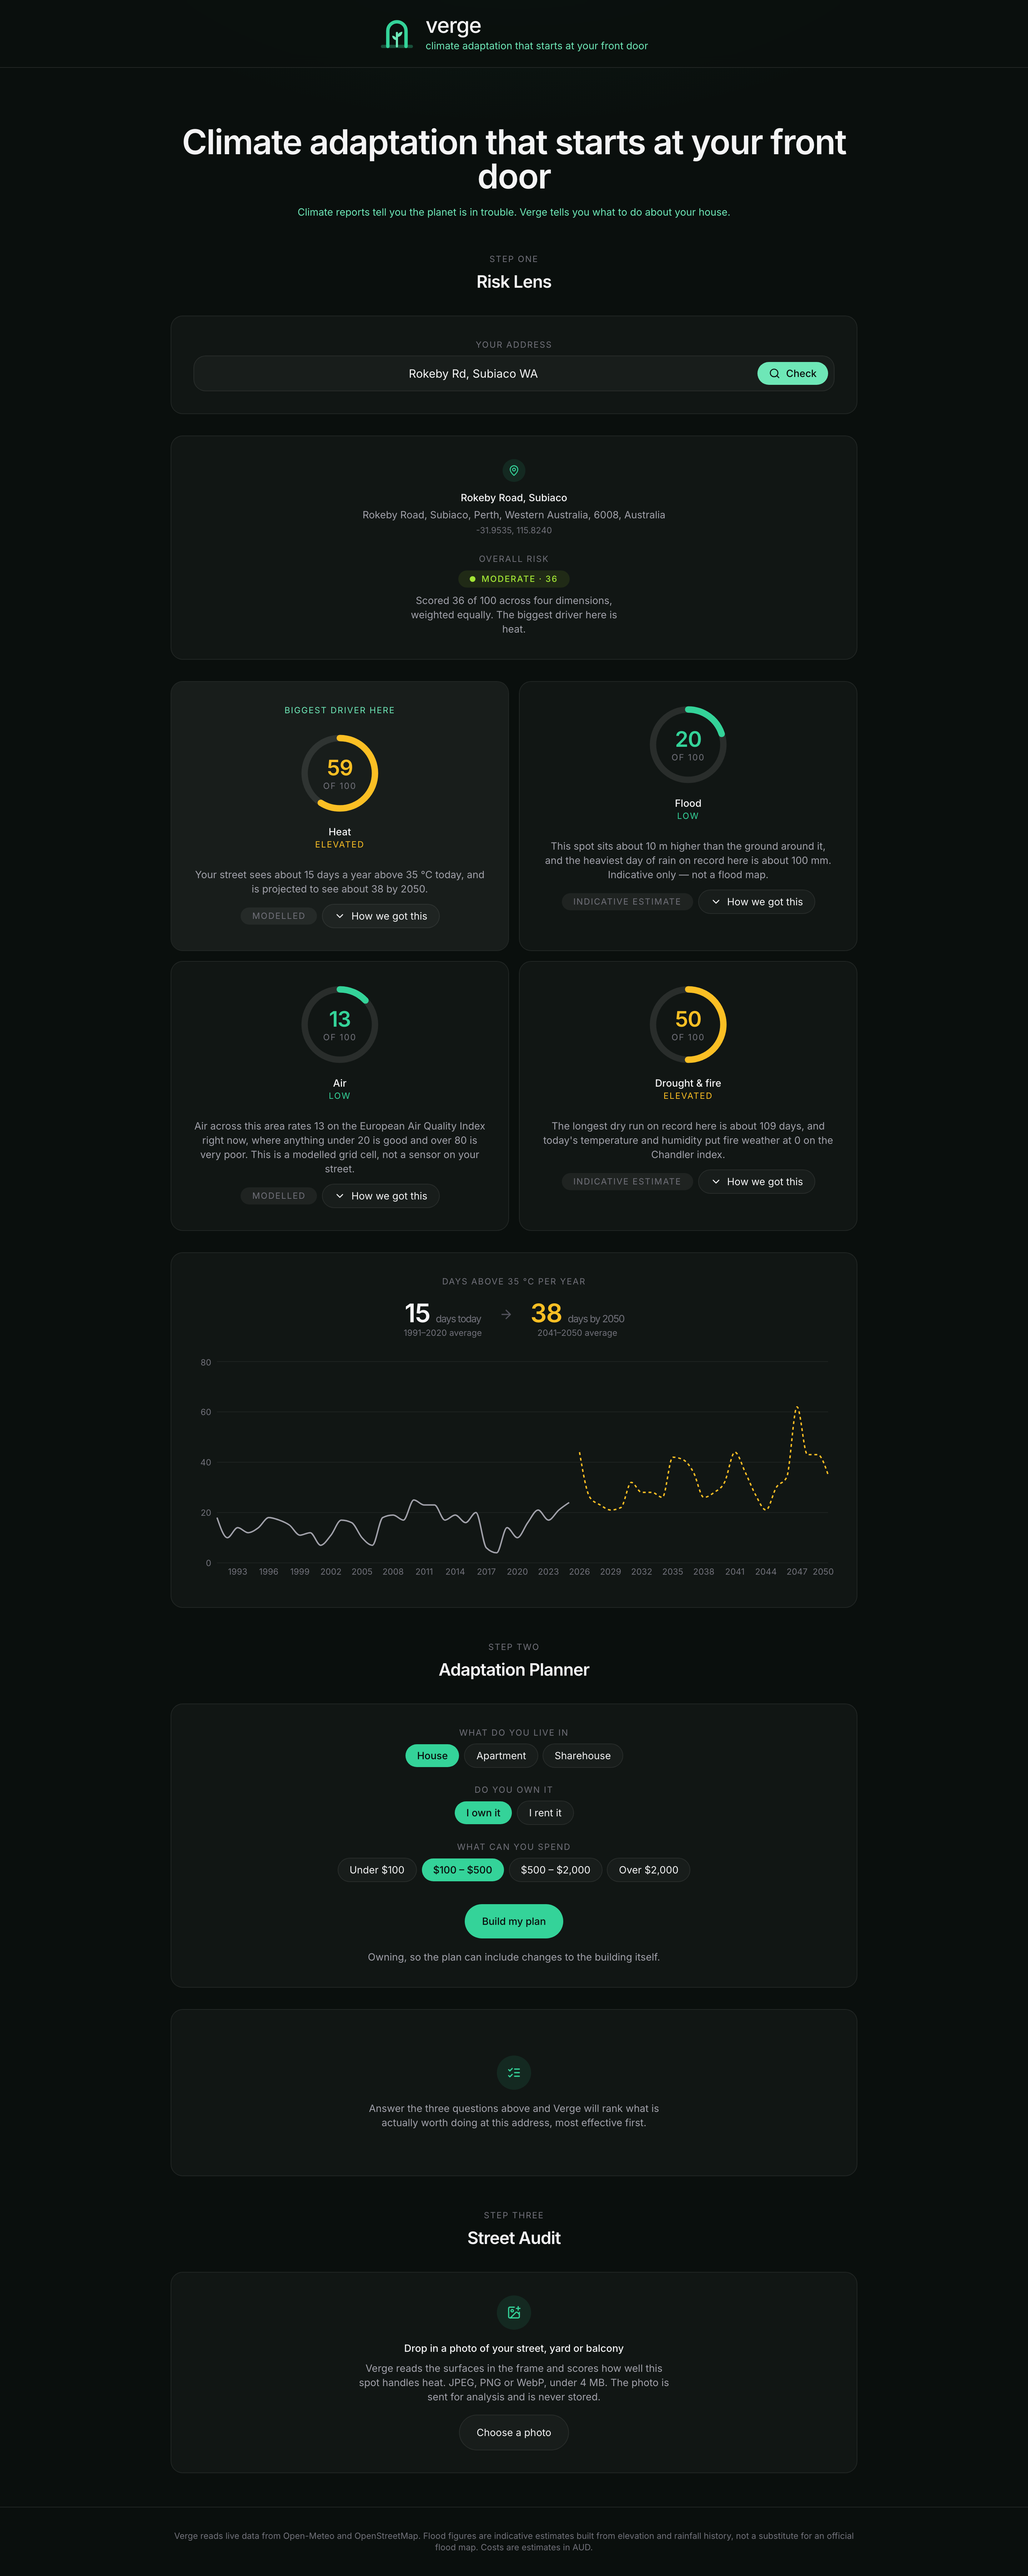
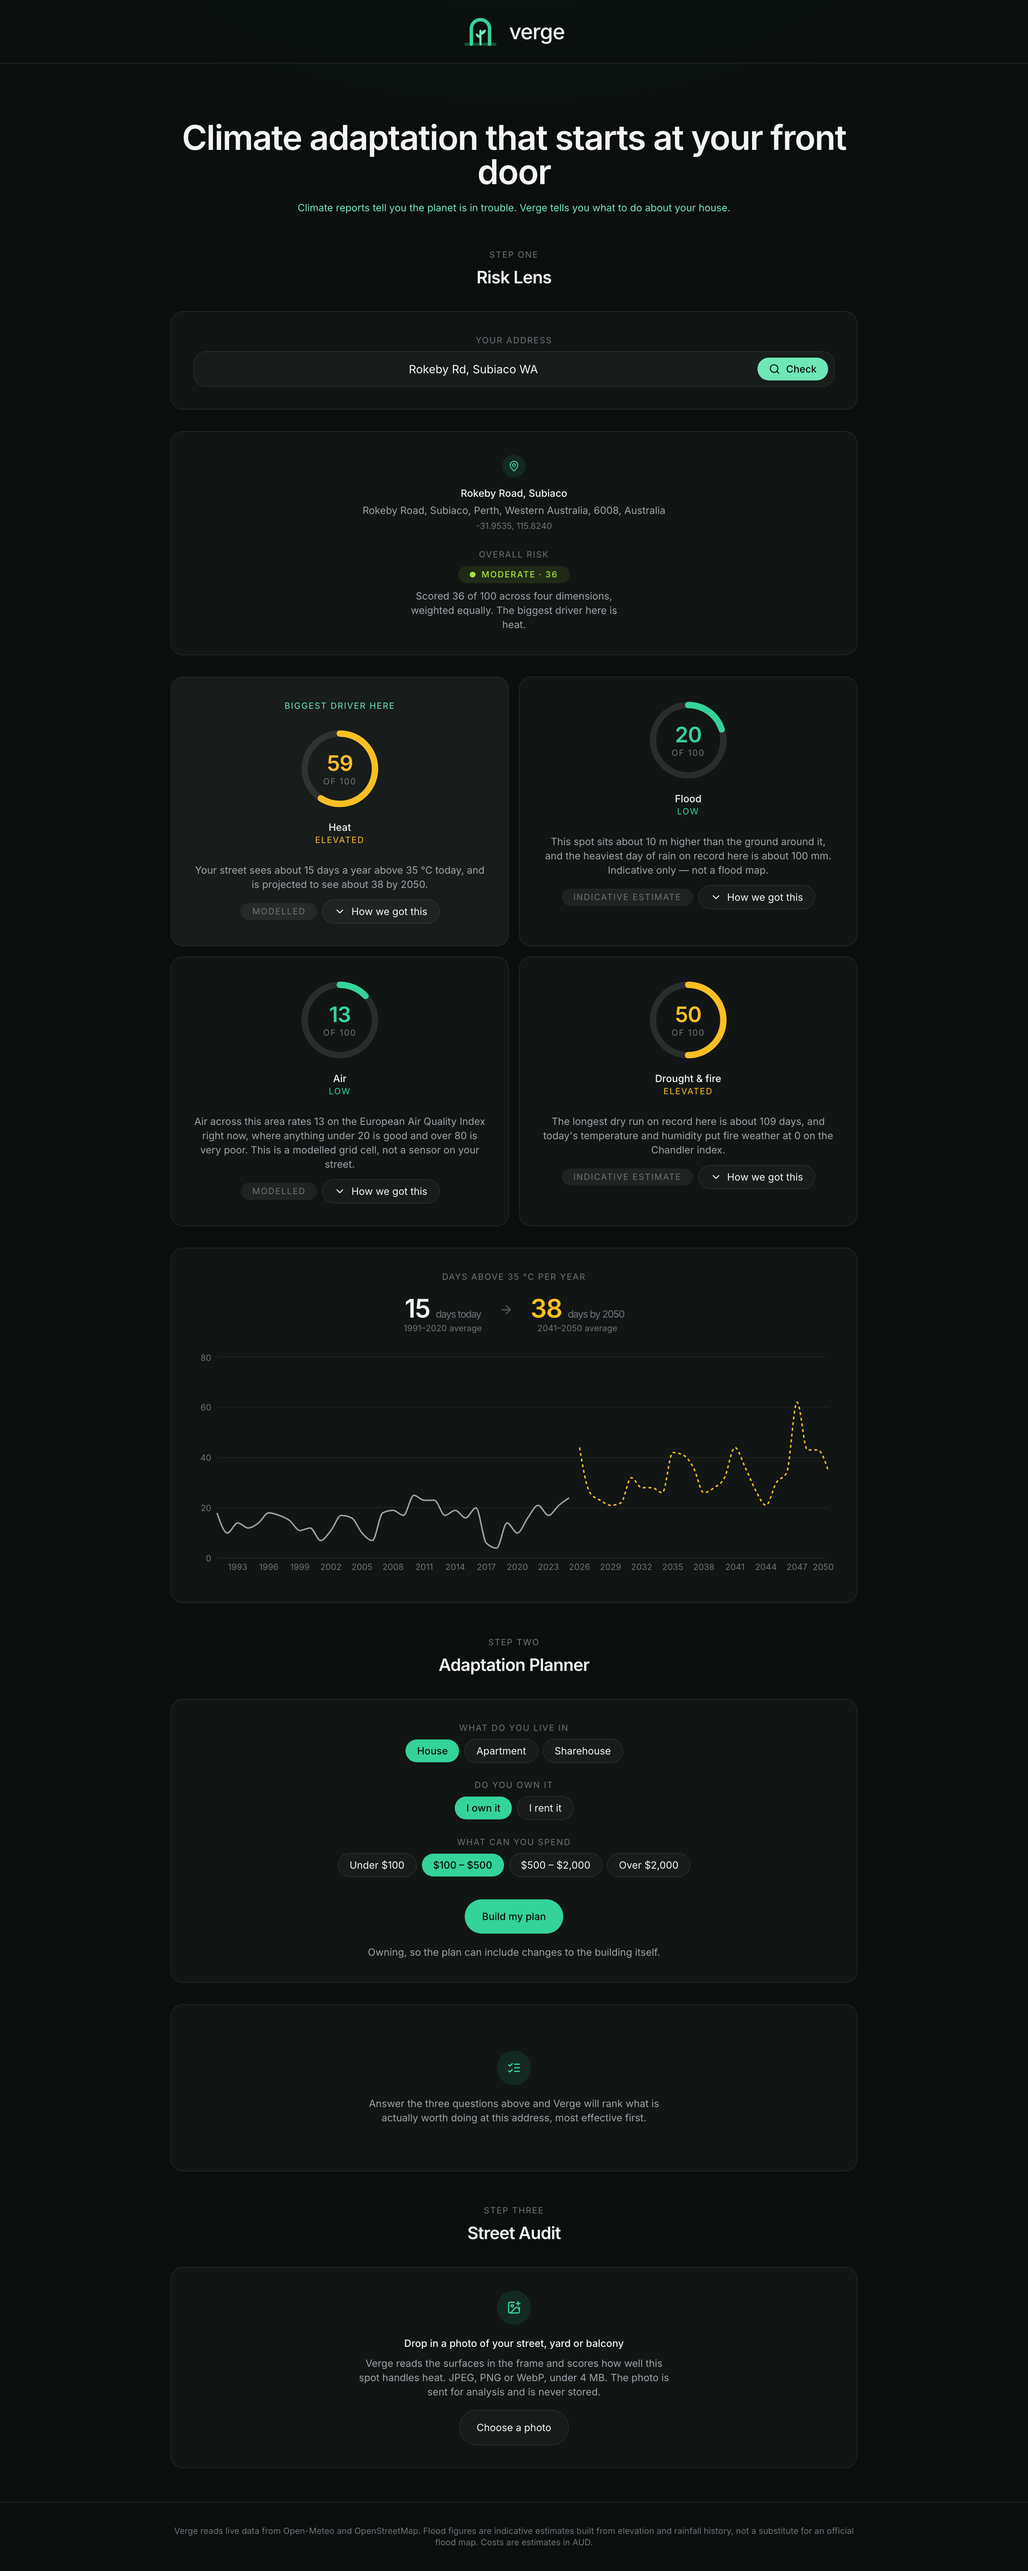
Header: drop the tagline from the lockup
It was the page's own h1 a few hundred pixels below, so the header made every
visitor read the same sentence twice before seeing anything — the reason it
came out the first time. Mark and wordmark alone, centred.

Header height 115px to 89px, and identical at 390px and 1440px.

diff --git a/src/components/layout/Header.tsx b/src/components/layout/Header.tsx
@@ -1,5 +1,9 @@
 /**
- * The Verge lockup: front-door mark, wordmark, and the line underneath.
+ * The Verge lockup: front-door mark and wordmark, centred.
+ *
+ * The line underneath was tried here and taken out again — it is the page's
+ * own h1 a few hundred pixels below, so the header was making everyone read
+ * the same sentence twice before seeing anything.
  *
  * The mark is a threshold standing on a ground line with something growing
  * inside it — "climate adaptation that starts at your front door", drawn. It is
@@ -55,14 +59,9 @@ export function Header() {
       <div className="mx-auto flex max-w-5xl items-center justify-center gap-4 px-6 py-5 md:px-8">
         <VergeMark className="h-12 w-12 shrink-0 text-accent" />
 
-        <div className="text-left">
-          <p className="text-3xl font-medium lowercase leading-none tracking-tight text-zinc-100">
-            verge
-          </p>
-          <p className="mt-1 text-sm lowercase text-accent-text">
-            climate adaptation that starts at your front door
-          </p>
-        </div>
+        <p className="text-3xl font-medium lowercase leading-none tracking-tight text-zinc-100">
+          verge
+        </p>
       </div>
     </header>
   )
